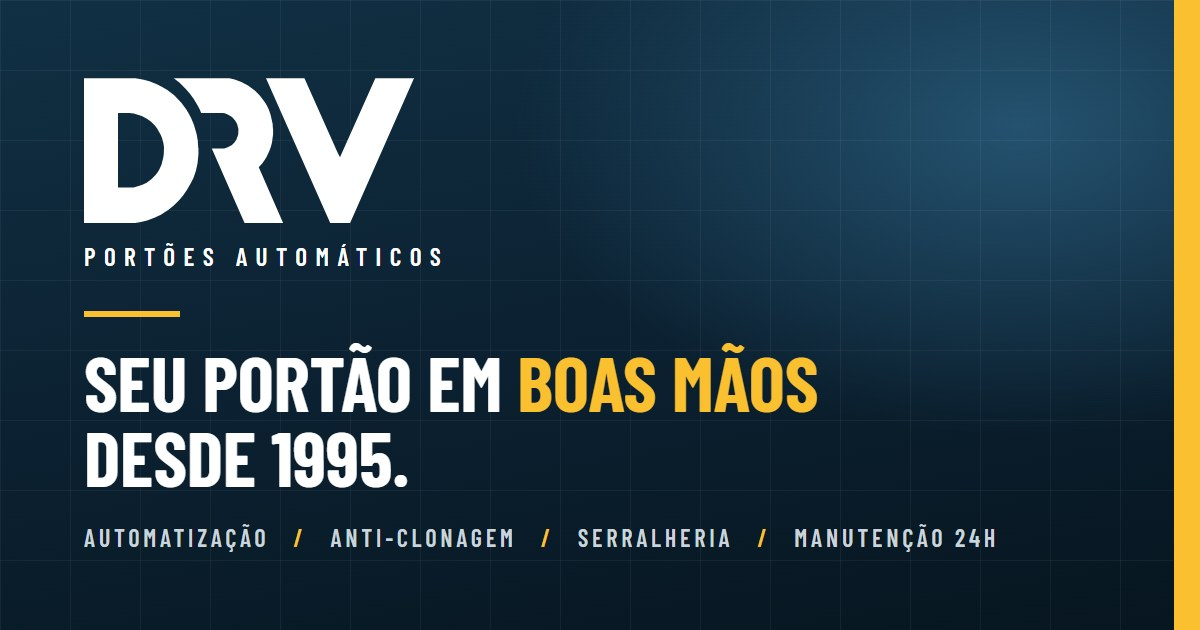
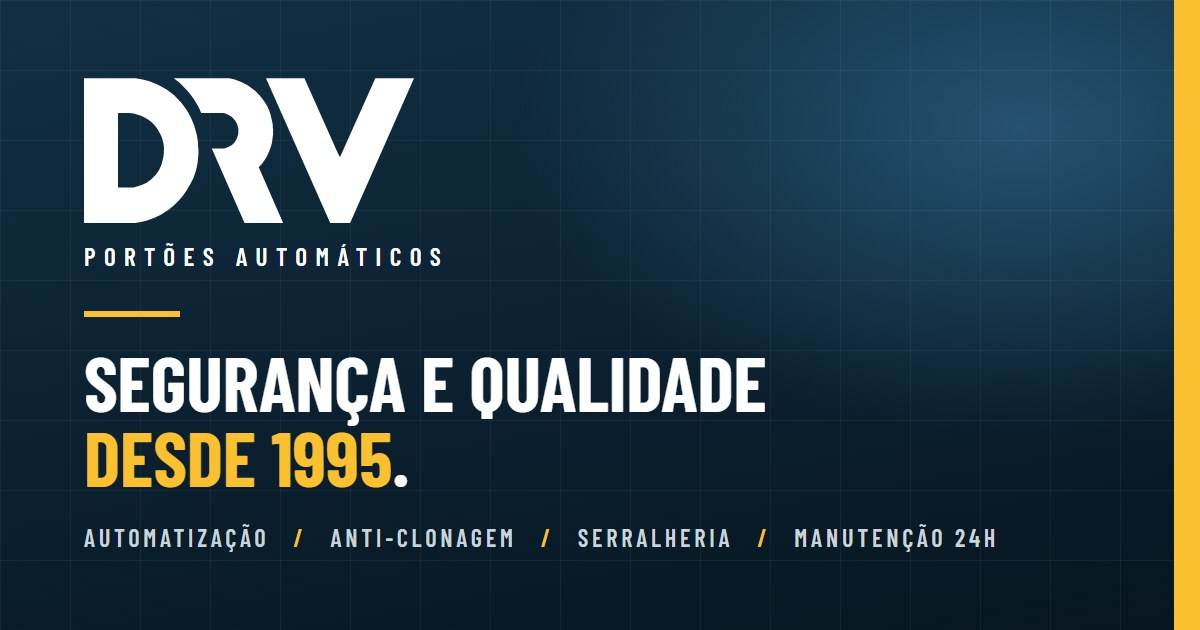
Change the headline to "Segurança e qualidade desde 1995"
The owner preferred this line over "Seu portão em boas mãos". The share
image carries the same change.

Changed region(s): [[0.0617, 0.5429, 0.6783, 0.7841]]

diff --git a/index.html b/index.html
@@ -102,7 +102,7 @@
 
         <div class="hero-copy">
           <p class="kicker">Portões automáticos · São Paulo</p>
-          <h1>Seu portão em <em>boas mãos</em> desde 1995.</h1>
+          <h1>Segurança e qualidade <em>desde 1995</em>.</h1>
           <p class="hero-lead">
             Automatização, sistema anti-clonagem, serralheria e manutenção 24&nbsp;horas
             para condomínios, prédios e residências em toda São Paulo.
